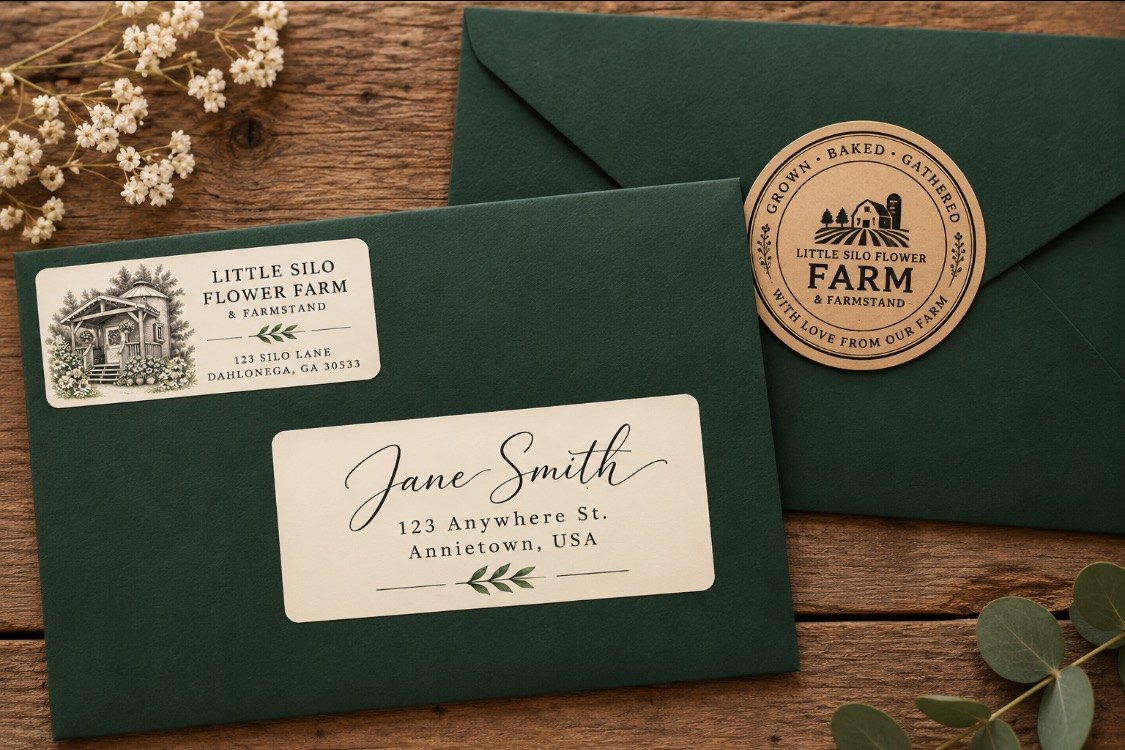
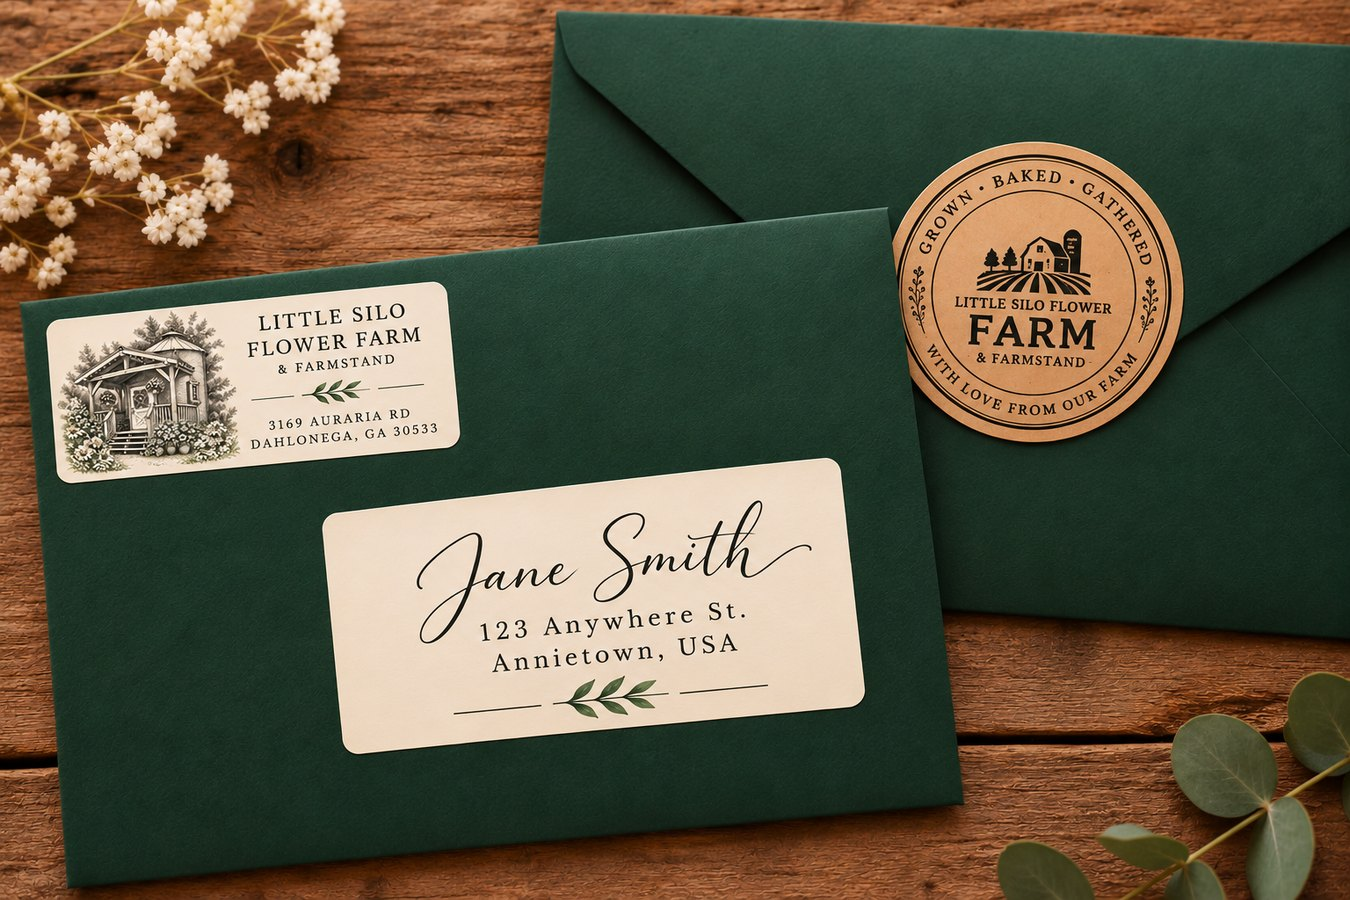
Use envelope photo with real return address
Claude-Session: https://claude.ai/code/session_012RFCvnnkmdK8RjMaY8BGyq

diff --git a/from-the-silo/index.html b/from-the-silo/index.html
@@ -149,7 +149,7 @@ footer p{margin:.6rem 0 0}footer a{font-weight:700}
       <p class="sign">Dawn, Darby, Finnley &amp; Sawyer</p>
       <div class="btns"><a class="btn js-join" href="#join">Become a founding member</a> <a class="btn alt" href="#gift">Give it as a gift</a></div>
     </div>
-    <img class="hero-env" src="envelopes.jpg" width="1125" height="750" alt="Two forest-green From the Silo envelopes on a wooden table, one with a cream address label and a return label showing the silo porch, the other sealed with the round kraft Little Silo Flower Farm seal">
+    <img class="hero-env" src="envelopes.jpg" width="1350" height="900" alt="Two forest-green From the Silo envelopes on a wooden table, one with a cream address label and a return label showing the silo porch, the other sealed with the round kraft Little Silo Flower Farm seal">
 
   </header>
 

diff --git a/from-the-silo/welcome/index.html b/from-the-silo/welcome/index.html
@@ -72,7 +72,7 @@ footer p{margin:.5rem 0 0}footer a{font-weight:700}
     <p class="eyebrow">You're in!</p>
     <h1>Welcome to From the Silo</h1>
     <p class="lede">Thank you for joining our little letter club. We are so glad you're here.</p>
-    <figure class="photo"><img src="../envelopes.jpg" width="1125" height="750" alt="Forest-green From the Silo envelopes with a cream address label and the round kraft Little Silo seal"></figure>
+    <figure class="photo"><img src="../envelopes.jpg" width="1350" height="900" alt="Forest-green From the Silo envelopes with a cream address label and the round kraft Little Silo seal"></figure>
   </header>
 
   <section class="step" aria-labelledby="addr">
